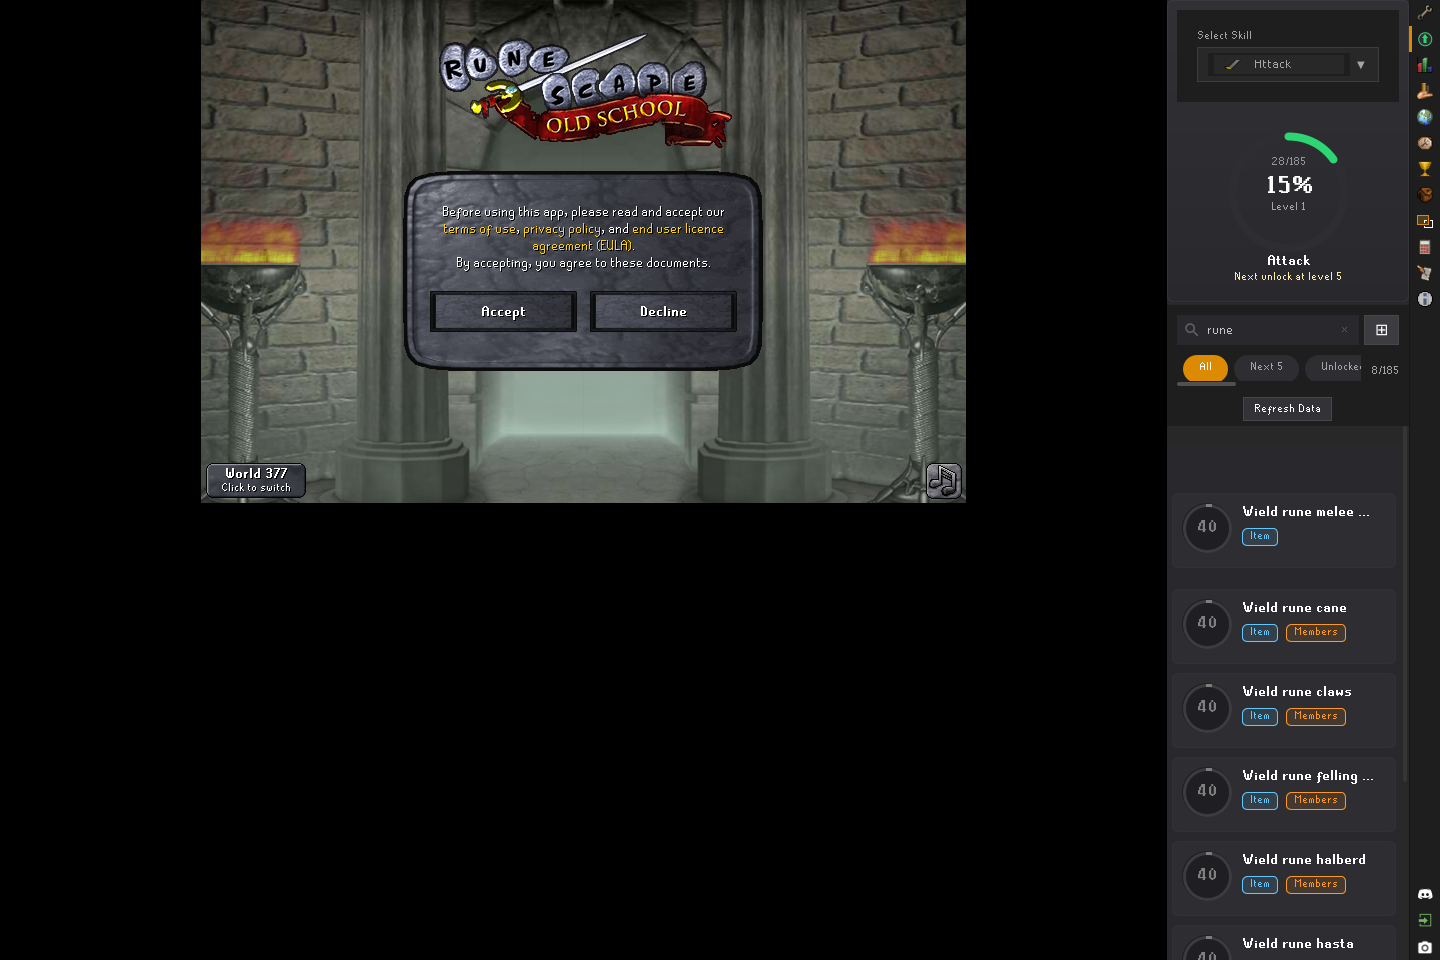
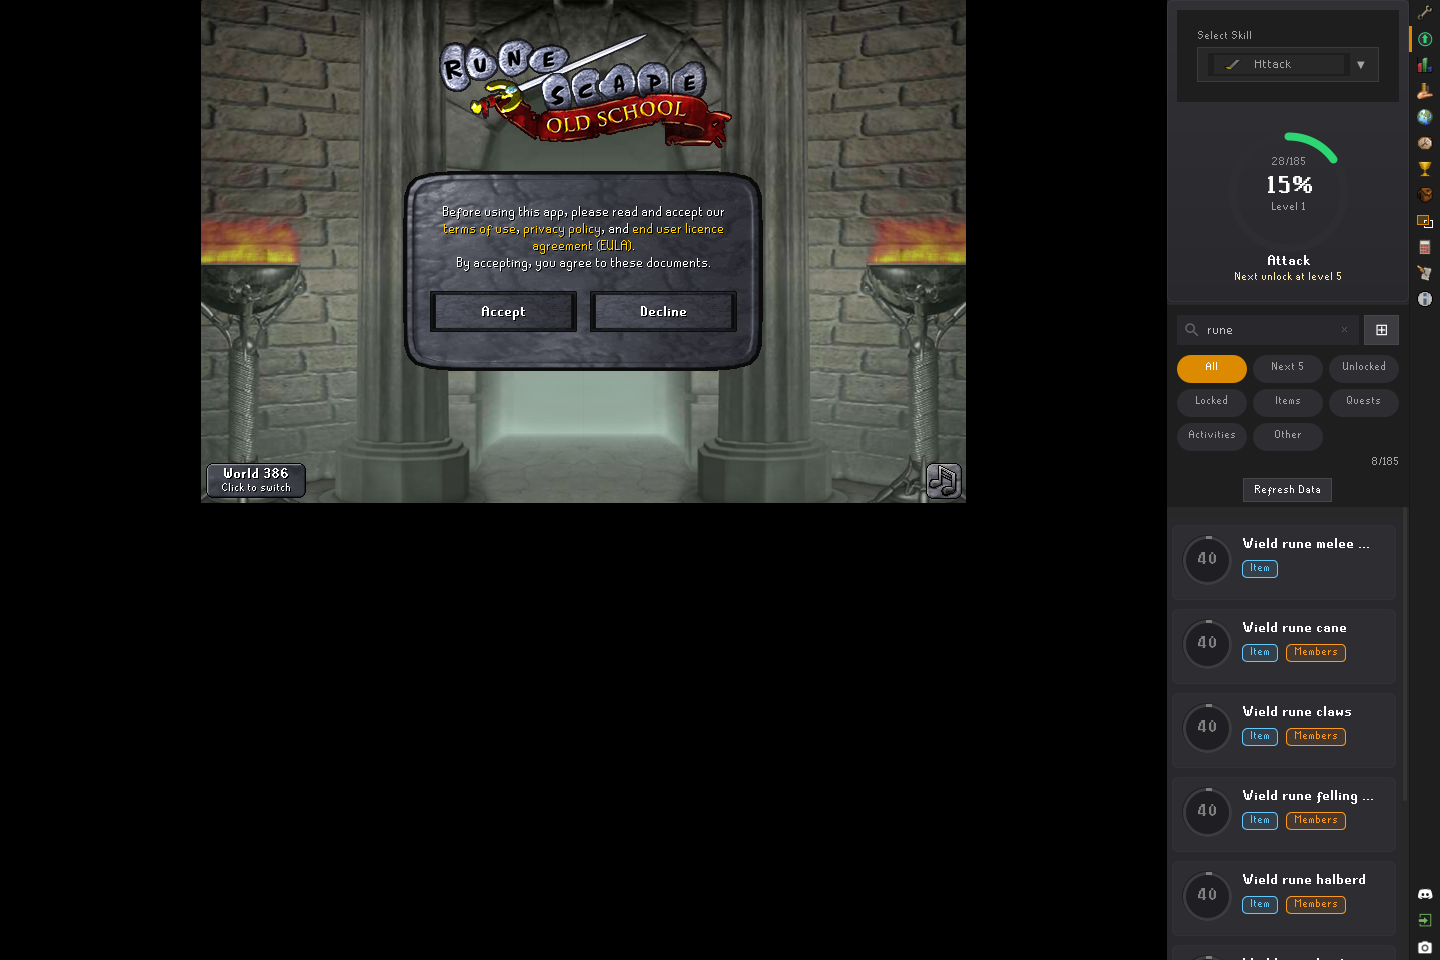
Fix filter chip layout and filtered list spacing

diff --git a/src/main/java/com/runelite/skillunlocks/ui/components/controls/PillFilterBar.java b/src/main/java/com/runelite/skillunlocks/ui/components/controls/PillFilterBar.java
@@ -43,7 +43,7 @@ public class PillFilterBar extends JPanel implements Serializable
     }
 	
 	private static final int PILL_HEIGHT = 28;
-	private static final int PILL_PADDING = 16;
+	private static final int PILL_PADDING = 8;
 	private static final int PILL_SPACING = 6;
 	private static final Color PILL_BG = new Color(45, 45, 50);
 	private static final Color PILL_SELECTED = ColorScheme.BRAND_ORANGE;
@@ -62,8 +62,8 @@ public class PillFilterBar extends JPanel implements Serializable
 		setBackground(ColorScheme.DARKER_GRAY_COLOR);
 		setBorder(new EmptyBorder(5, 10, 5, 10));
 		
-		// Create scrollable pill container
-		JPanel pillContainer = new JPanel(new FlowLayout(FlowLayout.LEFT, PILL_SPACING, 0));
+		// Keep every filter visible at the default sidebar width.
+		JPanel pillContainer = new JPanel(new GridLayout(0, 3, PILL_SPACING, PILL_SPACING));
 		pillContainer.setBackground(ColorScheme.DARKER_GRAY_COLOR);
 		
 		// Add filter pills
@@ -79,29 +79,14 @@ public class PillFilterBar extends JPanel implements Serializable
 			}
 		}
 		
-		// Wrap in scroll pane for horizontal scrolling
-		JScrollPane scrollPane = new JScrollPane(pillContainer);
-		scrollPane.setHorizontalScrollBarPolicy(ScrollPaneConstants.HORIZONTAL_SCROLLBAR_AS_NEEDED);
-		scrollPane.setVerticalScrollBarPolicy(ScrollPaneConstants.VERTICAL_SCROLLBAR_NEVER);
-		scrollPane.setBorder(null);
-		scrollPane.setBackground(ColorScheme.DARKER_GRAY_COLOR);
-		scrollPane.getViewport().setBackground(ColorScheme.DARKER_GRAY_COLOR);
-		scrollPane.setPreferredSize(new Dimension(0, PILL_HEIGHT + 4));
-		
-		// Custom scrollbar styling
-		JScrollBar hBar = scrollPane.getHorizontalScrollBar();
-		hBar.setPreferredSize(new Dimension(0, 6));
-		hBar.setBackground(ColorScheme.DARKER_GRAY_COLOR);
-		hBar.setUI(new ModernScrollBarUI());
-		
-		add(scrollPane, BorderLayout.CENTER);
+		add(pillContainer, BorderLayout.CENTER);
 		
 		// Result count label
-		resultCountLabel = new JLabel("");
+		resultCountLabel = new JLabel("", SwingConstants.RIGHT);
 		resultCountLabel.setFont(FontManager.getRunescapeSmallFont());
 		resultCountLabel.setForeground(ColorScheme.LIGHT_GRAY_COLOR);
-		resultCountLabel.setBorder(new EmptyBorder(0, 10, 0, 0));
-		add(resultCountLabel, BorderLayout.EAST);
+		resultCountLabel.setBorder(new EmptyBorder(5, 0, 0, 0));
+		add(resultCountLabel, BorderLayout.SOUTH);
 	}
 	
 	private class PillButton extends JComponent
@@ -236,62 +221,6 @@ public class PillFilterBar extends JPanel implements Serializable
 		else
 		{
 			resultCountLabel.setText(shown + "/" + total);
-		}
-	}
-	
-	// Custom scrollbar UI for modern look
-	private static class ModernScrollBarUI extends javax.swing.plaf.basic.BasicScrollBarUI
-	{
-		@Override
-		protected void configureScrollBarColors()
-		{
-			thumbColor = new Color(80, 80, 80);
-			trackColor = ColorScheme.DARKER_GRAY_COLOR;
-		}
-		
-		@Override
-		protected JButton createDecreaseButton(int orientation)
-		{
-			return createInvisibleButton();
-		}
-		
-		@Override
-		protected JButton createIncreaseButton(int orientation)
-		{
-			return createInvisibleButton();
-		}
-		
-		private JButton createInvisibleButton()
-		{
-			JButton button = new JButton();
-			button.setPreferredSize(new Dimension(0, 0));
-			button.setMinimumSize(new Dimension(0, 0));
-			button.setMaximumSize(new Dimension(0, 0));
-			return button;
-		}
-		
-		@Override
-		protected void paintThumb(Graphics g, JComponent c, Rectangle thumbBounds)
-		{
-			if (thumbBounds.isEmpty() || !scrollbar.isEnabled())
-			{
-				return;
-			}
-			
-			Graphics2D g2d = (Graphics2D) g.create();
-			g2d.setRenderingHint(RenderingHints.KEY_ANTIALIASING, RenderingHints.VALUE_ANTIALIAS_ON);
-			
-			g2d.setColor(thumbColor);
-			g2d.fillRoundRect(thumbBounds.x, thumbBounds.y + 1,
-				thumbBounds.width, thumbBounds.height - 2, 4, 4);
-			
-			g2d.dispose();
-		}
-		
-		@Override
-		protected void paintTrack(Graphics g, JComponent c, Rectangle trackBounds)
-		{
-			// Don't paint track
 		}
 	}
 	

diff --git a/src/main/java/com/runelite/skillunlocks/ui/panels/UnlockListPanel.java b/src/main/java/com/runelite/skillunlocks/ui/panels/UnlockListPanel.java
@@ -143,6 +143,8 @@ public class UnlockListPanel extends JPanel implements Serializable
 				}
 			}
 			
+			updateSpacerVisibility(card.getContentPanel());
+
 			// Hide entire card if no visible content
 			card.setVisible(hasVisibleContent);
 			
@@ -153,8 +155,26 @@ public class UnlockListPanel extends JPanel implements Serializable
 			}
 		}
 		
+		updateSpacerVisibility(contentPanel);
 		contentPanel.revalidate();
 		contentPanel.repaint();
+	}
+
+	private void updateSpacerVisibility(JPanel panel)
+	{
+		// A hidden card must not leave its trailing spacing in the list.
+		boolean previousVisible = true;
+		for (Component component : panel.getComponents())
+		{
+			if (component instanceof Box.Filler)
+			{
+				component.setVisible(previousVisible);
+			}
+			else
+			{
+				previousVisible = component.isVisible();
+			}
+		}
 	}
 	
 	/**
